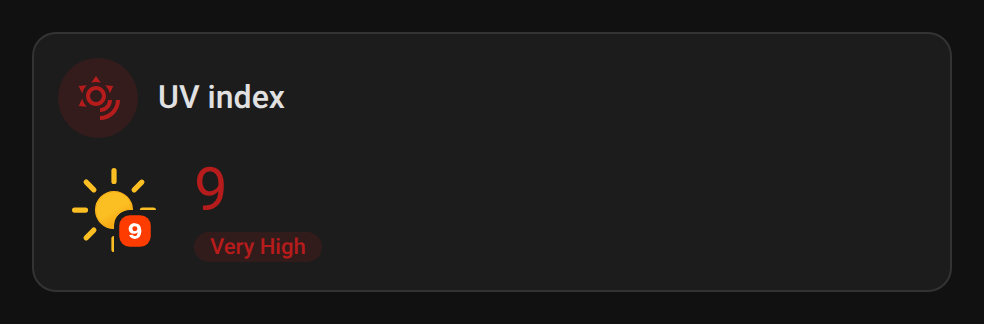
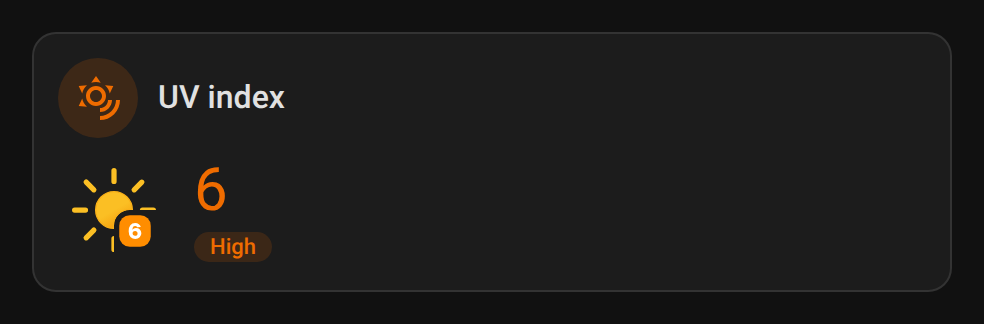
Review pass 7 fixes (no release) (#23)
Review pass 7 fixes for **ha-uv-card**, from origin/main a2fab09
(fetched just before branching). **No release**: no shipped file changes
(`src/`, `dist/`, `icons/`, `hacs.json` untouched), only the screenshot
script, tests, README, a workflow comment and Dependabot, so the version
stays **1.6.3** and the CHANGELOG is unchanged.

## Fixes

### Horizontal light | dark screenshots showed two different states
- **Bug:** the README "Horizontal" row compares `card.png` (UV 6, High,
orange) with `card-dark.png` (UV 9, Very High, red), so it is not a
theme twin, unlike the Vertical and Unavailable rows and the 5 GIF
pairs.
- **Cause:** `scripts/screenshots.mjs` rendered `card` with `uv(6)` and
`card-dark` with `uv(9)`.
- **Fix:** the still shots now live in `scripts/shots.mjs` (no
Playwright, no `dist/`, so the tests can import it).
`scripts/screenshots.mjs` renders them and still exports `uv` for
`gifs.mjs`. `card-dark` now uses `uv(6)`, like `card` and the README
hero image.
- **Test:** `test/shots.test.mjs`
- Every light shot has a `<file>-dark` twin with the same width, config
and states, and no dark shot is left without a light twin. This test
failed on the old values (`card and card-dark differ beyond the theme`)
and passes now.
- Edge case: every light | dark row of the README points to two rendered
shots, and the dark one is the `-dark` twin of the light one.
- **Images:** not regenerated here. This PR touches `scripts/**`, so the
[…]

diff --git a/README.md b/README.md
@@ -109,7 +109,7 @@ npm run screenshots  # renders the README screenshots
 npm run gifs         # records the README GIFs, one per risk band (needs ffmpeg)
 ```
 
-The **Screenshots** workflow re-renders the screenshots and GIFs on every pull request that touches `src/`, `icons/`, `scripts/` or the Playwright version (`package.json`, `package-lock.json`) and commits them back onto the PR branch (pull requests from forks are only rendered, not committed; a manual run uploads them as an artifact). A push made with `GITHUB_TOKEN` does not trigger `pull_request` workflows, so after committing the workflow dispatches Lint, Validate and HACS on the PR branch to check the new commit.
+The **Screenshots** workflow re-renders the screenshots and GIFs on every pull request that touches `src/`, `icons/`, `scripts/` or the Playwright version (`package.json`, `package-lock.json`) and commits them back onto the PR branch (pull requests from forks are only rendered, not committed; a manual run uploads them as an artifact). The `pull_request` runs created by that bot commit are left waiting for approval (they show as failed with no job once the PR is merged), so after committing the workflow dispatches Lint, Validate and HACS on the PR branch to check the new commit.
 
 `dist/` is not committed: `npm run build` creates it locally, CI builds it on every push, and the release workflow attaches the built file to the release, which is where HACS downloads it from.
 
